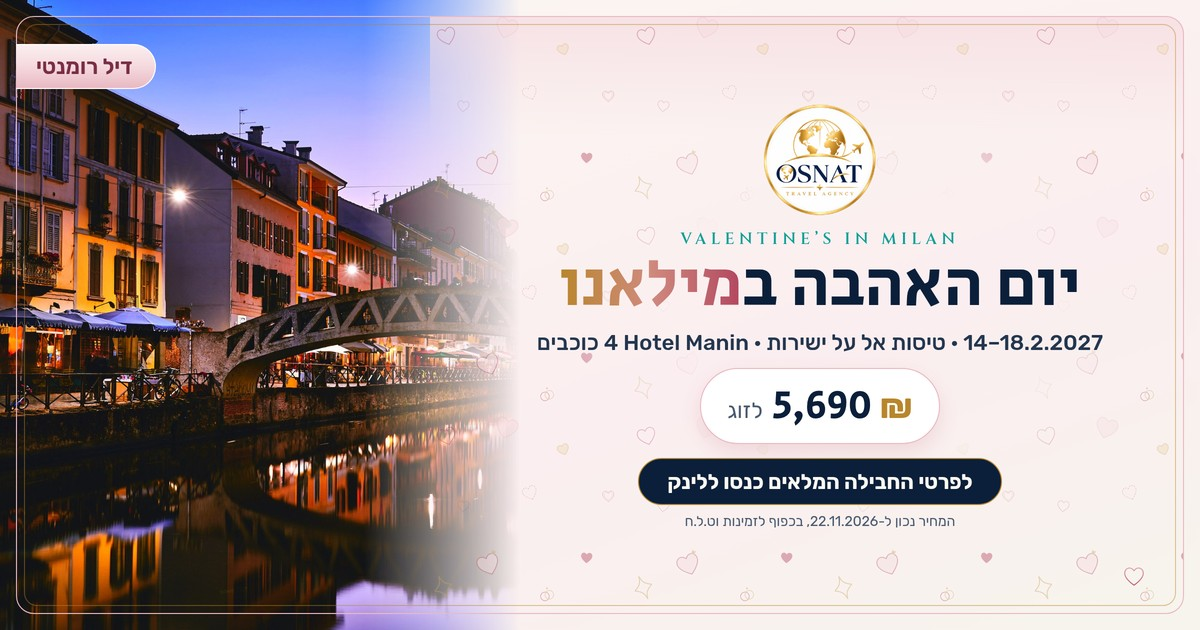
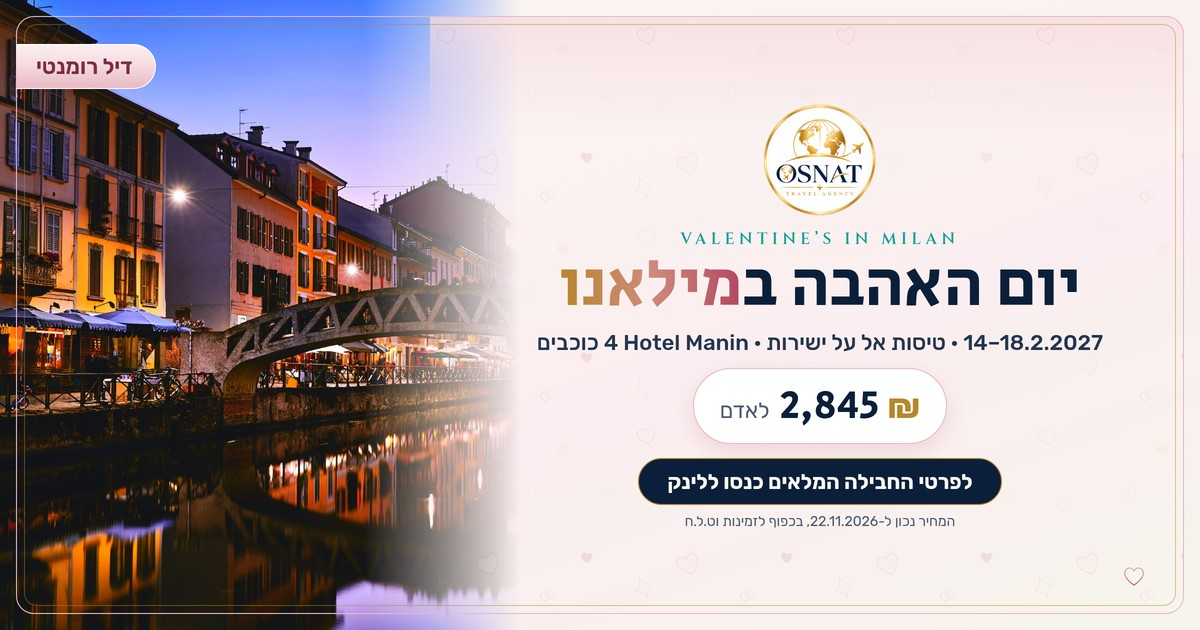
Preview: show per-person price (2,845 ₪) as the headline on /preview/milan-manin-valentine/, og v4

diff --git a/preview/milan-manin-valentine/index.html b/preview/milan-manin-valentine/index.html
@@ -2,25 +2,25 @@
 <html dir="rtl" lang="he">
 <head>
 <meta charset="utf-8"/>
-<meta property="og:image" content="https://osnat-travel.com/preview/milan-manin-valentine/og.jpg?v=3"/>
+<meta property="og:image" content="https://osnat-travel.com/preview/milan-manin-valentine/og.jpg?v=4"/>
 <meta property="og:title" content="יום האהבה במילאנו"/>
 <meta property="og:url" content="https://osnat-travel.com/preview/milan-manin-valentine/"/>
 <meta property="og:type" content="website"/>
 <meta property="og:image:width" content="1200"/>
 <meta property="og:image:height" content="630"/>
 <meta property="og:image:type" content="image/jpeg"/>
-<meta property="og:description" content="14–18.2.2027 · טיסות אל על ישירות · Hotel Manin 4 כוכבים עם ארוחת בוקר · 5,690 ₪ לזוג · 2,845 ₪ לאדם · לפרטי החבילה המלאים כנסו ללינק"/>
+<meta property="og:description" content="14–18.2.2027 · טיסות אל על ישירות · Hotel Manin 4 כוכבים עם ארוחת בוקר · 2,845 ₪ לאדם · לפרטי החבילה המלאים כנסו ללינק"/>
 <meta name="robots" content="noindex,nofollow,noarchive"/>
 <meta name="googlebot" content="noindex,nofollow"/>
-<meta property="og:image:secure_url" content="https://osnat-travel.com/preview/milan-manin-valentine/og.jpg?v=3"/>
+<meta property="og:image:secure_url" content="https://osnat-travel.com/preview/milan-manin-valentine/og.jpg?v=4"/>
 <meta property="og:image:alt" content="יום האהבה במילאנו"/>
 <meta property="og:locale" content="he_IL"/>
 <meta property="og:site_name" content="OSNAT TRAVEL AGENCY"/>
-<meta name="description" content="יום האהבה במילאנו 14–18.2.2027 · טיסות אל על ישירות · Hotel Manin 4 כוכבים עם ארוחת בוקר · 5,690 ₪ לזוג · 2,845 ₪ לאדם"/>
+<meta name="description" content="יום האהבה במילאנו 14–18.2.2027 · טיסות אל על ישירות · Hotel Manin 4 כוכבים עם ארוחת בוקר · 2,845 ₪ לאדם"/>
 <meta name="twitter:card" content="summary_large_image"/>
 <meta name="twitter:title" content="יום האהבה במילאנו"/>
-<meta name="twitter:description" content="14–18.2.2027 · טיסות אל על ישירות · Hotel Manin 4 כוכבים עם ארוחת בוקר · 5,690 ₪ לזוג · 2,845 ₪ לאדם"/>
-<meta name="twitter:image" content="https://osnat-travel.com/preview/milan-manin-valentine/og.jpg?v=3"/>
+<meta name="twitter:description" content="14–18.2.2027 · טיסות אל על ישירות · Hotel Manin 4 כוכבים עם ארוחת בוקר · 2,845 ₪ לאדם"/>
+<meta name="twitter:image" content="https://osnat-travel.com/preview/milan-manin-valentine/og.jpg?v=4"/>
 <meta name="theme-color" content="#FBF8F2"/>
 <meta name="viewport" content="width=device-width,initial-scale=1"/>
 <title>יום האהבה במילאנו | OSNAT TRAVEL AGENCY</title>
@@ -90,10 +90,9 @@ footer.vl-foot small{display:inline-block;margin-top:4px}
 <p class="vl-sub">חופשה זוגית במילאנו — שקיעה ליד הדואומו, טיול בגלריה, ואווירת ערב איטלקית לשניים<br/><b><span data-exp="date">5 ימים, 4 לילות · <bdi>14–18.2.2027</bdi></span></b><br/>טיסות אל על ישירות + <bdi dir="ltr">Hotel Manin</bdi> + ארוחת בוקר</p>
 <div class="price vn-pb vl-pb" data-exp="price">
 <span class="vl-badge">דיל רומנטי לזוגות</span>
-<p class="pb-k">PRICE PER COUPLE</p>
-<div class="pb-amt"><bdi class="pb-price" dir="ltr"><span class="pb-num">5,690</span> <span class="pb-cur vl-ils">₪</span></bdi></div>
-<div class="pb-per">לזוג</div>
-<span class="pb-chip"><bdi dir="ltr">2,845 <span class="pb-cur vl-ils">₪</span></bdi> לאדם</span>
+<p class="pb-k">PRICE PER PERSON</p>
+<div class="pb-amt"><bdi class="pb-price" dir="ltr"><span class="pb-num">2,845</span> <span class="pb-cur vl-ils">₪</span></bdi></div>
+<div class="pb-per">לאדם</div>
 <div class="pb-meta">5 ימים · 4 לילות · <bdi dir="ltr">14–18.2.2027</bdi> · טיסות אל על ישירות · לינה וארוחת בוקר</div>
 <div class="pb-note"><span>המחיר נכון ל-<bdi dir="ltr">22.11.2026</bdi>, בכפוף לזמינות וט.ל.ח</span><i> | </i><span>מקומות מוגבלים</span></div>
 <a class="pb-wa" href="https://wa.me/972506413749?text=%D7%9C%D7%93%D7%99%D7%9C%20%D7%99%D7%95%D7%9D%20%D7%94%D7%90%D7%94%D7%91%D7%94%20%D7%91%D7%9E%D7%99%D7%9C%D7%90%D7%A0%D7%95%2014%E2%80%9318.2" rel="noopener" target="_blank">להזמנה בוואטסאפ</a>
@@ -183,7 +182,7 @@ footer.vl-foot small{display:inline-block;margin-top:4px}
 <p class="k">THE PRICE</p>
 <h2><span class="vl-grad">מחיר</span></h2>
 <p><span class="vl-badge">דיל רומנטי לזוגות</span></p>
-<p class="vl-big"><b><bdi>5,690 <span class="vl-ils">₪</span></bdi></b> לזוג · <b><bdi>2,845 <span class="vl-ils">₪</span></bdi></b> לאדם</p>
+<p class="vl-big"><b><bdi>2,845 <span class="vl-ils">₪</span></bdi></b> לאדם</p>
 <p>כולל טיסות הלוך-חזור ו־4 לילות במלון עם ארוחת בוקר. תיק יד עד 8 ק״ג. מזוודה לבטן לא כלולה.</p>
 <p>מס עיר, אם ייגבה, משולם בנפרד במלון.</p>
 <p class="small">המחיר נכון ל-<bdi>22.11.2026</bdi>, בכפוף לזמינות וט.ל.ח · מקומות מוגבלים</p>
